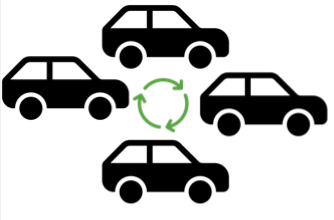
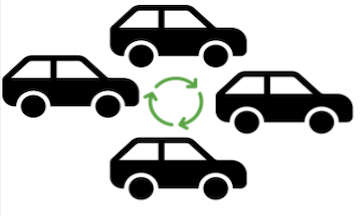
change project images size

diff --git a/_pages/about.md b/_pages/about.md
@@ -13,7 +13,7 @@ Hi, my name is Yuchong Geng. I am a second year MEng student at Cornell Universi
 Research Interests
 ======
 
-Robotics
+Robotics <br>
 Edge Computing
 
 Education
